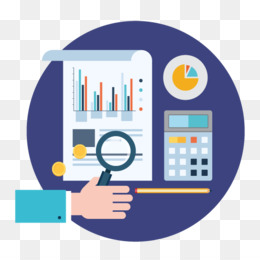
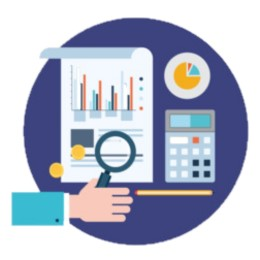
Adding birth v1

Changed region(s): [[0.0308, 0.0615, 0.9846, 0.9538]]

diff --git a/src/api/API.js b/src/api/API.js
@@ -306,6 +306,62 @@ const ALinks = [
     ],
     link:"http://ntpappsweb0006/requerimientos/requests.aspx"
   }, 
+  {
+    name:"Matriz REQ TI",
+    img:"../Excell.svg",
+    category: [
+      'otros'
+    ],
+    link:"https://clarocomdo-my.sharepoint.com/:x:/r/personal/jose_al_rodriguez_claro_com_do/_layouts/15/Doc.aspx?sourcedoc=%7B7b42fed7-4c17-430e-9b60-c18f769916c5%7D&action=edit&wdinitialsession=12cbbce1-c659-43f1-87e6-27bb0db82ca8&wdrldsc=7&wdrldc=2&wdrldr=BootTimeMismatch"
+  }, 
+  {
+    name:"Est. Diarias",
+    img:"../Excell.svg",
+    category: [
+      'otros'
+    ],
+    link:"https://clarocomdo-my.sharepoint.com/:x:/r/personal/jose_al_rodriguez_claro_com_do/_layouts/15/Doc.aspx?sourcedoc=%7B761b1618-fae1-487f-b16d-dee463f7812d%7D&action=edit&activeCell=%27Julio%202023%27!AH6&wdinitialsession=0b7c8a04-7d2c-458d-a762-17e175656da4&wdrldsc=3&wdrldc=1&wdrldr=AccessTokenExpiredWarning%2CRefreshingExpiredAccessT"
+  }, 
+  {
+    name:"Night Report",
+    img:"../Excell.svg",
+    category: [
+      'otros'
+    ],
+    link:"https://clarocomdo-my.sharepoint.com/:x:/r/personal/jose_al_rodriguez_claro_com_do/_layouts/15/Doc.aspx?sourcedoc=%7B87c5f36b-227d-4139-b4a4-65f43f40126c%7D&action=edit&wdinitialsession=f7148591-5094-4e2f-bce6-f82f196771ae&wdrldsc=17&wdrldc=1&wdrldr=UserInteraction%2CBootTimeMismatch"
+  }, 
+  {
+    name:"SWITCH Report",
+    img:"../Excell.svg",
+    category: [
+      'otros'
+    ],
+    link:"https://clarocomdo-my.sharepoint.com/:x:/g/personal/jose_al_rodriguez_claro_com_do/EUDRjfb_RzhIlPG8Ru4VW0QB7LbB4LOCfKmagNzc3MOykw?e=4%3A3tydnC&at=9&CID=5FCD3E77-306B-40BA-81D0-B272BBF53B1D"
+  }, 
+  {
+    name:"Commplex",
+    img:"../Commplex.png",
+    category: [
+      'favoritos'
+    ],
+    link:""
+  }, 
+  {
+    name:"Ensamble Switch",
+    img:"../Switch.png",
+    category: [
+      'favoritos'
+    ],
+    link:""
+  }, 
+  {
+    name:"SAS",
+    img:"../SAS.png",
+    category: [
+      'favoritos'
+    ],
+    link:""
+  }, 
 ]
 
 /** Arreglo de Instructivos -Estático- */
@@ -562,6 +618,86 @@ const AInstructivos = [
     ],
     link:'../sox/AUDITOR%C3%8DA%20OFERTAS%20M%C3%93VILES.pdf'
   }, 
+  {
+    name:'Manejo de Rebotes',
+    img:'../Excell.svg',
+    category: [
+      'provisión'
+    ],
+    link:'../sox/MANEJO%20DE%20REBOTES.xlsx'
+  }, 
 ]
 
-export { ALinks, AInstructivos };
+/** Arreglo de Cumpleaños -Estático- */
+const ABirthday = [
+   {
+    name: 'Lucero Ureña',
+    birthday: '2-01'
+   },
+   {
+    name: 'Ariangel Díaz',
+    birthday: '27-01'
+   },
+   {
+    name: 'Jorge Roque',
+    birthday: '01-02'
+   },
+   {
+    name: 'Jose Al. Rodríguez',
+    birthday: '04-04'
+   },
+   {
+    name: 'Mabeel Fernández',
+    birthday: '03-06'
+   },
+   {
+    name: 'Parisa Pastrano',
+    birthday: '22-06'
+   },
+   {
+    name: 'Wilson Brito',
+    birthday: '04-07'
+   },
+   {
+    name: 'Kelvin Ceballo',
+    birthday: '22-07'
+   },
+   {
+    name: 'Ruben Evertz',
+    birthday: '15-08'
+   },
+   {
+    name: 'Freddy Ortiz',
+    birthday: '26-08'
+   },
+   {
+    name: 'Willy Alcantara',
+    birthday: '16-09', 
+    img: "/WillyAlcantara.png",
+    mail: "mailto:willy_alcantara@claro.com.do" ,
+    movil: '8097217805',
+    station: 'X-4002'
+   },
+   {
+    name: 'Yael Segura',
+    birthday: '16-10'
+   },
+   {
+    name: 'Víctor Tejada',
+    birthday: '18-10'
+   },
+   {
+    name: 'Rafael Pichardo',
+    birthday: '25-10'
+   },
+   {
+    name: 'Cristian Melo',
+    birthday: '13-11'
+   },
+   {
+    name: 'Ginet Matos',
+    birthday: '20-11'
+   },
+]
+
+export { ALinks, AInstructivos, ABirthday };

diff --git a/src/components/BirthCard.js b/src/components/BirthCard.js
@@ -1,0 +1,59 @@
+import { motion } from 'framer-motion';
+import Image from 'next/image';
+import Link from 'next/link'
+import React, { useState } from 'react'
+
+const FramerImage = motion(Image);
+ 
+
+const BirthCard = ({
+  nombre, 
+  img,
+  mail, 
+  movil,
+  station, 
+}) => {
+    const [movils, setMovils] = useState(false)
+    const [stations, setStations] = useState(false)
+    return (
+        <article className={`w-full max-w-[300px] max-h-[320px] top-0 h-full items-center justify-center border border-solid border-gray-900 bg-gray-200 rounded-3xl`}>  
+            <FramerImage
+                src={img}
+                alt={nombre}
+                className="w-full h-auto rounded-lg" 
+                whileHover={{ scale: 1.05  }}
+                transition={{ duration: 0.2 }}
+                width={800}
+                height={330}
+            /> 
+            <div className="w-full flex flex-col items-start justify-between mt-4"> 
+                <h2 className="my-2 w-full text-center text-base font-bold lg:text-lg text-gray-900 ">
+                {nombre}
+                </h2> 
+                <div className="mt-2 w-full flex justify-center flex-wrap">  
+                    <p
+                        onClick={() => setStations(!stations)}  
+                    className={`border-sky-500 border-2 focus:ring-4 no-underline rounded-lg text-xs px-2 py-1 text-center mr-2 mb-2 transition-all duration-400 cursor-pointer font-semibold hover:!border-sky-200 ${stations ? 'bg-white text-sky-500 ' : 'bg-sky-500  text-white'}`}
+                    >
+                    {stations ? station : 'Estación'}
+                    </p>
+                    <Link
+                        href={mail}
+                        target='_blank'
+                        className="text-black hover:!text-white border-1 border-black hover:bg-black focus:ring-4 no-underline rounded-lg text-xs px-2 py-1 text-center mr-2 mb-2 transition-all duration-200 font-semibold"
+                    >
+                        Correo
+                    </Link> 
+                    <p
+                        onClick={() => setMovils(!movils)}  
+                    className={`border-blue-500 border-2 focus:ring-4 no-underline rounded-lg text-xs px-2 py-1 text-center mr-2 mb-2 transition-all duration-400 cursor-pointer font-semibold hover:!border-blue-200 ${movils ? 'bg-white text-blue-500 ' : 'bg-blue-500  text-white'}`}
+                    >
+                    {movils ? movil : 'Celular'}
+                    </p>
+                </div>
+            </div>
+        </article>  
+) 
+}
+
+export default BirthCard

diff --git a/src/app/page.js b/src/app/page.js
@@ -128,7 +128,7 @@ export default function Home() {
 
         <div className="col-span-12 flex w-full justify-center">
           <button className={`text-2xl ${!selector ? 'bg-red-800' : 'bg-red-600'} text-white font-bold uppercase px-6 py-4 rounded-l-2xl transition-all duration-400`} disabled={!selector} onClick={changeSelector}>Claro</button>
-          <button className={`text-2xl ${selector ? 'bg-blue-800' : 'bg-blue-500'} text-white font-bold uppercase px-6 py-4 rounded-r-2xl transition-all duration-400`} disabled={true} onClick={changeSelector}>Operaciones Móviles</button>
+          <button className={`text-2xl ${selector ? 'bg-blue-800' : 'bg-blue-500'} text-white font-bold uppercase px-6 py-4 rounded-r-2xl transition-all duration-400`} disabled={selector} onClick={changeSelector}>Operaciones Móviles</button>
         </div>
         { !selector ? (
         <motion.div 
@@ -173,8 +173,8 @@ export default function Home() {
           }}
           viewport={{ once: true }}
         >
-          <h1 className="justify-center text-center text-sky-700 font-bold text-6xl m-auto w-full">
-            MISION
+          <h1 className="justify-center text-center text-sky-700 font-bold text-6xl m-auto w-full uppercase">
+          Misión
           </h1>
         </motion.div>
         <motion.div
@@ -190,8 +190,8 @@ export default function Home() {
           }}
           viewport={{ once: true }}
         >
-          <h1 className="justify-center text-center text-blue-800 font-bold text-6xl m-auto w-full">
-            VISION
+          <h1 className="justify-center text-center text-blue-800 font-bold text-6xl m-auto w-full uppercase">
+            Visión
           </h1>
         </motion.div>
         <motion.div
@@ -327,8 +327,8 @@ export default function Home() {
           }}
           viewport={{ once: true }}
         >
-          <h1 className="justify-center text-center text-red-600 font-bold text-6xl m-auto w-full">
-            MISION
+          <h1 className="justify-center text-center text-red-600 font-bold text-6xl m-auto w-full uppercase">
+            Misión
           </h1>
         </motion.div>
         <motion.div
@@ -344,8 +344,8 @@ export default function Home() {
           }}
           viewport={{ once: true }}
         >
-          <h1 className="justify-center text-center text-red-600 font-bold text-6xl m-auto w-full">
-            VISION
+          <h1 className="justify-center text-center text-red-600 font-bold text-6xl m-auto w-full uppercase">
+            Visión
           </h1>
         </motion.div>
         <motion.div

diff --git a/src/components/NavHome.js b/src/components/NavHome.js
@@ -1,5 +1,5 @@
 "use client";
-import React, { useState } from "react";
+import React, { useEffect, useState } from "react";
 import Image from "next/image";
 import "bootstrap/dist/css/bootstrap.min.css";
 import Container from "react-bootstrap/Container";
@@ -10,11 +10,39 @@ import { motion } from "framer-motion";
 import NavDrop from "./NavDrop";
 import Link from "next/link";
 import NavFather from "./NavFather";
+import { ABirthday } from "@/api/API";
 
 const FramerLink = motion(Link);
 const FramerImage = motion(Image);
 
+const CheckDate = () => {
+  let cumple;
+  const date = new Date();
+  const month = date.getMonth() + 1;
+  const day = date.getDate();
+
+  const fixedDate = day + '-' + month;
+
+
+  ABirthday.forEach(({name, birthday}) => {
+    if(birthday == fixedDate) {
+      cumple = {
+        name,
+        birthday
+      }
+    }
+  })
+
+  return cumple;
+} 
+
 const NavHome = () => {
+  const [cumple, setCumple] = useState({})
+
+  useEffect(() => {
+    setCumple(CheckDate())
+  }, [])
+
   return (
     <>
       <main
@@ -28,7 +56,7 @@ const NavHome = () => {
             src="/logo-pom.png"
             priority="true"
             width="110"
-            height="59"
+            height="50"
             alt="Logo POM"
             className="mx-auto z-50"
             initial={{ opacity: 0, y: 0 }}
@@ -52,7 +80,7 @@ const NavHome = () => {
             viewport={{ once: true }}
           />
         </Link>
-        <div className="pt-[92px] mx-auto select-none">
+        <div className="pt-[90px] mx-auto select-none">
           <Navbar expand="lg" className="bg-transparent mx-auto">
             <Container fluid>
               <Navbar.Toggle aria-controls="navbarScroll" />
@@ -454,7 +482,8 @@ const NavHome = () => {
           whileHover={{ scale: 1.05 }}
           transition={{ duration: 0.3 }}
         />
-      </Link>
+      </Link> 
+
     </>
   );
 };

diff --git a/src/app/links/page.js b/src/app/links/page.js
@@ -13,7 +13,7 @@ const FramerLink = motion(Link);
 const Links = ({ name, img, link }) => {
   return (
     <FramerLink
-      className="col-span-1 rounded-[2rem] select-none m-auto drop-shadow-md h-[240px] w-[240px] no-underline relative inline-flex items-center justify-start overflow-hidden transition-all group bg-cover"
+      className={`col-span-1 rounded-[2rem] select-none m-auto drop-shadow-md h-[240px] w-[240px] no-underline relative inline-flex items-center justify-start overflow-hidden transition-all group bg-cover bg-gray-100 ${link ? '' : 'pointer-events-none'} `}
       href={link}
       target="_blank"
       style={{ backgroundImage: `url(${img})` }}

diff --git a/src/app/instructivos/page.js b/src/app/instructivos/page.js
@@ -13,7 +13,7 @@ const FramerLink = motion(Link);
 const Instructivos = ({ name, img, link }) => {
   return (
     <FramerLink
-      className="col-span-1 rounded-[2rem] select-none m-auto drop-shadow-md w-[240px] h-[240px] no-underline relative inline-flex items-center justify-start overflow-hidden transition-all group bg-cover"
+      className="col-span-1 rounded-[2rem] select-none m-auto bg-gray-100 drop-shadow-md w-[240px] h-[240px] no-underline relative inline-flex items-center justify-start overflow-hidden transition-all group bg-cover"
       href={link}
       target="_blank"
       style={{ backgroundImage: `url(${img})` }}
